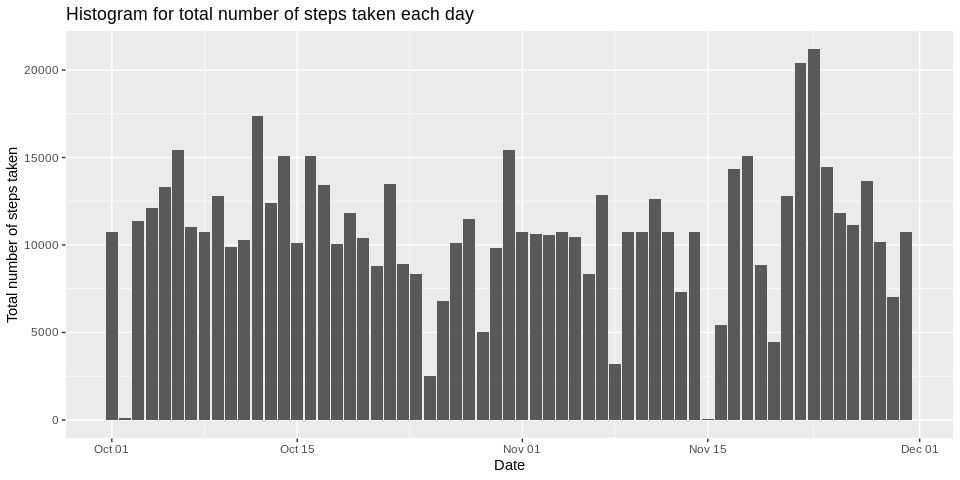
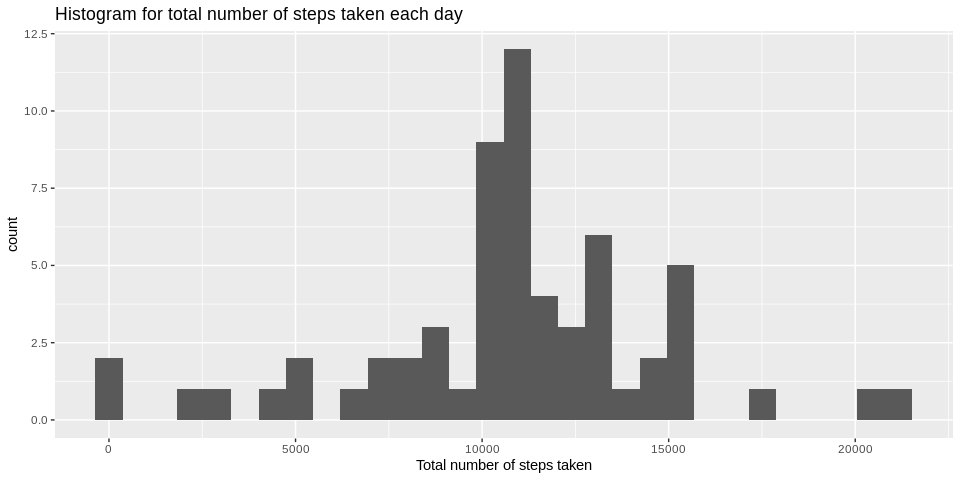
Update code and figures

diff --git a/PA1_template.html b/PA1_template.html
@@ -200,9 +200,10 @@ data$date &lt;- as.Date(data$date, '%Y-%m-%d')</code></pre>
     group_by(date) %&gt;%
     summarise(total_steps = sum(steps, na.rm = TRUE))
 
-g &lt;- ggplot(data1, aes(x = data1$date, y = data1$total_steps)) + geom_bar(stat = &quot;identity&quot;) + ggtitle(&quot;Histogram for total number of steps taken each day&quot;) + xlab(&quot;Date&quot;) + ylab(&quot;Total number of steps taken&quot;)
+g &lt;- ggplot(data1, aes(data1$total_steps)) + geom_histogram() + ggtitle(&quot;Histogram for total number of steps taken each day&quot;) + xlab(&quot;Total number of steps taken&quot;)
 print(g)</code></pre>
[1 lines of base64/hex data omitted]
+<pre><code>## `stat_bin()` using `bins = 30`. Pick better value with `binwidth`.</code></pre>
[1 lines of base64/hex data omitted]
 <pre class="r"><code>print(paste0(&quot;Mean total number of steps taken per day = &quot;, mean(data1$total_steps)))</code></pre>
 <p>[1] “Mean total number of steps taken per day = 9354.22950819672”</p>
 <pre class="r"><code>print(paste0(&quot;Median total number of steps taken per day = &quot;, median(data1$total_steps)))</code></pre>
@@ -235,9 +236,10 @@ data4 &lt;- data3 %&gt;%
     group_by(date) %&gt;%
     summarise(total_steps = sum(steps, na.rm = TRUE))
 
-g &lt;- ggplot(data4, aes(x = data4$date, y = data4$total_steps)) + geom_bar(stat = &quot;identity&quot;) + ggtitle(&quot;Histogram for total number of steps taken each day&quot;) + xlab(&quot;Date&quot;) + ylab(&quot;Total number of steps taken&quot;)
+g &lt;- ggplot(data4, aes(data4$total_steps)) + geom_histogram() + ggtitle(&quot;Histogram for total number of steps taken each day&quot;) + xlab(&quot;Total number of steps taken&quot;)
 print(g)</code></pre>
[1 lines of base64/hex data omitted]
+<pre><code>## `stat_bin()` using `bins = 30`. Pick better value with `binwidth`.</code></pre>
[1 lines of base64/hex data omitted]
 <pre class="r"><code>print(paste0(&quot;Mean total number of steps taken per day = &quot;, mean(data4$total_steps)))</code></pre>
 <p>[1] “Mean total number of steps taken per day = 10765.6393442623”</p>
 <pre class="r"><code>print(paste0(&quot;Median total number of steps taken per day = &quot;, median(data4$total_steps)))</code></pre>

diff --git a/PA1_template.md b/PA1_template.md
@@ -24,8 +24,12 @@ data1 <- data %>%
     group_by(date) %>%
     summarise(total_steps = sum(steps, na.rm = TRUE))
 
-g <- ggplot(data1, aes(x = data1$date, y = data1$total_steps)) + geom_bar(stat = "identity") + ggtitle("Histogram for total number of steps taken each day") + xlab("Date") + ylab("Total number of steps taken")
+g <- ggplot(data1, aes(data1$total_steps)) + geom_histogram() + ggtitle("Histogram for total number of steps taken each day") + xlab("Total number of steps taken")
 print(g)
+```
+
+```
+## `stat_bin()` using `bins = 30`. Pick better value with `binwidth`.
 ```
 
 ![](figure/meansteps-1.png)<!-- -->
@@ -82,8 +86,12 @@ data4 <- data3 %>%
     group_by(date) %>%
     summarise(total_steps = sum(steps, na.rm = TRUE))
 
-g <- ggplot(data4, aes(x = data4$date, y = data4$total_steps)) + geom_bar(stat = "identity") + ggtitle("Histogram for total number of steps taken each day") + xlab("Date") + ylab("Total number of steps taken")
+g <- ggplot(data4, aes(data4$total_steps)) + geom_histogram() + ggtitle("Histogram for total number of steps taken each day") + xlab("Total number of steps taken")
 print(g)
+```
+
+```
+## `stat_bin()` using `bins = 30`. Pick better value with `binwidth`.
 ```
 
 ![](figure/imputemissingvals-1.png)<!-- -->
